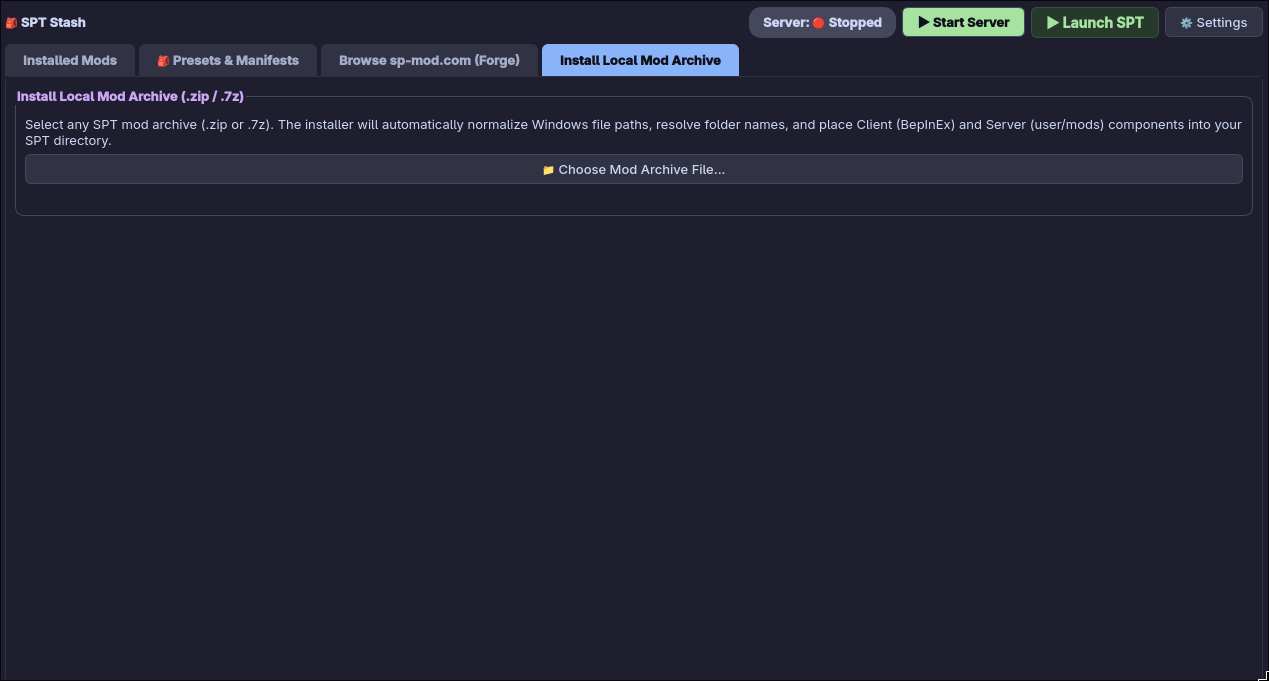
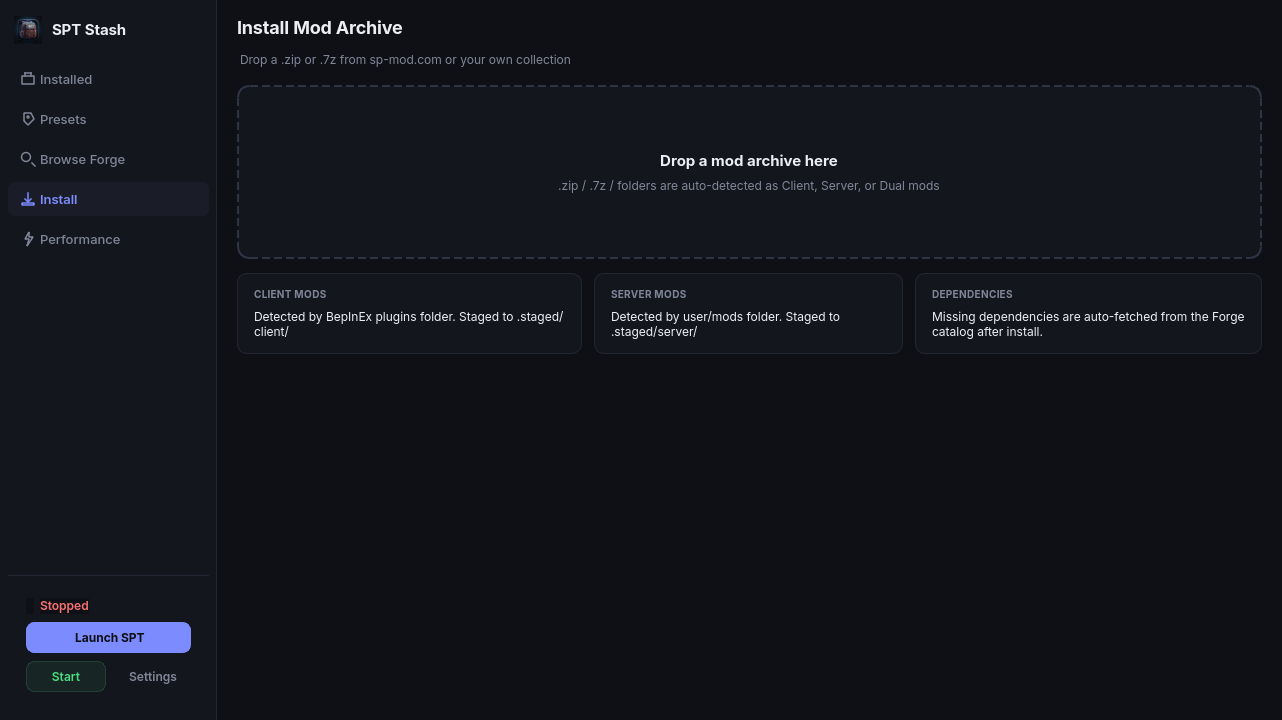
docs: refresh screenshots and README for the new UI

diff --git a/README.md b/README.md
@@ -19,7 +19,7 @@
 - **🛠 Official Greed.exe (SVM) & Proton Selector**: Launch the official [Server Value Modifier (SVM)](https://sp-mod.com/mod/236/server-value-modifier-svm) configurator (`Greed.exe`) under your base game Wine prefix with an interactive Proton runner selector in **⚙ Settings**.
 - **🌐 Universal Server Launcher & Live Badge**: Start and stop the SPT server across any Linux distribution with a 21-terminal discovery matrix, background logging fallback, and real-time status badge parsed directly from `http.json` (e.g. `🟢 Server: Running (127.0.0.1:6969)`).
 - **✨ Non-Blocking Animated Toast Notifications**: Smooth opacity fade-in / fade-out pill notifications for server operations, game launches, Greed.exe, and settings saves without blocking UI interaction.
-- **⚡ Linux Performance & Tuning Suite**: Dedicated tab for configuring **MangoHud overlays**, **AMD FSR 4 upscaling**, **DXVK Async shader compilation**, **Feral GameMode**, **NVIDIA NVAPI optimizations**, and **CPU core isolation (`taskset`)** with 1-click `🤖 Auto-Detect` and script auto-generation for `launcher.sh` and `server.sh`.
+- **⚡ Linux Performance & Tuning Suite**: Dedicated tab for configuring **MangoHud overlays**, **AMD FSR 4 upscaling**, **DXVK Async shader compilation**, **Feral GameMode**, **NVIDIA NVAPI optimizations**, and **CPU core isolation (`taskset`)** with 1-click `🤖 Auto-Detect` applied automatically every time you start the server or launch SPT (your launch scripts are never rewritten).
 - **🌐 Live Mod Catalog Browser**: Search, filter, and 1-click install mods directly from [sp-mod.com (The Forge)](https://sp-mod.com) with 5 sorting modes, target SPT version filtering, dependency resolution, and `.meta.json` sidecar stamping.
 - **🎒 Presets & Loadout Manifests**: Save, load, and export loadout presets as self-contained interactive HTML manifests with embedded JSON data blocks.
 - **📦 Multi-File Mod Consolidation**: Bundles dual-component mods (Client + Server, e.g. `UI Fixes`, `SAIN`, `Fika`) into clean single-row packages.
@@ -31,7 +31,7 @@
 ## 🖼 Application Showcase
 
 ### 1. Installed Mods Overview
-Manage client (`BepInEx/plugins`) and server (`user/mods`) mods with in-tree relative symlink staging (`.staged/`), interactive column sorting, Fika Co-Op compatibility badges, direct clickable author profile links (`https://sp-mod.com/user/<id>/<author>`), and a full right-click context menu. Use the **Bulk Actions Bar** to enable, disable, or delete multiple mods at once, or run **`🔍 Audit Dependencies`** and **`🔄 Check for Updates`**.
+Manage client (`BepInEx/plugins`) and server (`user/mods`) mods with in-tree relative symlink staging (`.staged/`), interactive column sorting, Fika Co-Op compatibility badges, direct clickable author profile links (`https://sp-mod.com/user/<id>/<author>`), and a full right-click context menu. Flip any mod on or off with its toggle (a symlink is added or removed, nothing is copied or re-downloaded), use the **bulk actions** to enable, disable, or delete several at once, or run **`🔍 Audit Dependencies`** and **`🔄 Check for Updates`**.
 
 ![Installed Mods Overview](docs/screenshots/installed_mods.png)
 
@@ -59,7 +59,7 @@ Drag-and-drop or select any local `.zip` or `.7z` mod archive. Automatically nor
 ---
 
 ### 5. Linux Performance & Game Launch Tuning
-Enable recommended Linux performance driver flags for your hardware with automatic GPU and CPU detection. Toggle **MangoHud overlays**, **AMD FSR 4 upscaling**, **DXVK Async shader compilation**, **Feral GameMode**, **NVIDIA NVAPI/threaded optimizations**, and **CPU core isolation (`taskset`)** with **`🤖 Auto-Detect`** and 1-click script auto-generation for `launcher.sh` and `server.sh`.
+Enable recommended Linux performance driver flags for your hardware with automatic GPU and CPU detection. Toggle **MangoHud overlays**, **AMD FSR 4 upscaling**, **DXVK Async shader compilation**, **Feral GameMode**, **NVIDIA NVAPI/threaded optimizations**, and **CPU core isolation (`taskset`)** with **`🤖 Auto-Detect`** applied automatically every time you start the server or launch SPT. Your launch scripts are never rewritten.
 
 ![Linux Performance & Launch Tuning](docs/screenshots/linux_performance.png)
 
@@ -75,6 +75,7 @@ Click **⚙ Settings** at the top right of **SPT Stash** to configure your in
 | **Mod Staging Stash Directory** | In-tree directory where **SPT Stash** stores uncompressed mod files (`SPT_ROOT/.staged`). Mods stay safely stored here and are symlinked into your game when enabled. | `~/Games/SPT/.staged` |
 | **Start Server Script Path** | Path to `server.sh` (or `SPT.Server.exe`) used to launch the local SPT server. | `~/Games/SPT/server.sh` |
 | **Launch SPT Script Path** | Path to `launcher.sh` (or `SPT.Launcher.exe`) used to start the launcher and game. | `~/Games/SPT/launcher.sh` |
+| **Wine / Proton Prefix (optional)** | Existing prefix to run `Greed.exe` in (for example one that already has the .NET Desktop Runtime), or a folder where a new one is created. Leave blank to auto-detect. | `~/Games/SPT-Prefix` |
 | **Proton / Compatibility Runner** | Dropdown menu allowing you to choose which Proton/GE-Proton version or System Wine executes Windows tools. | `Auto-Detect (GE-Proton11-6)` |
 | **Launch Greed.exe (SVM)** | Button to launch official `Greed.exe` inside your base game installation under your SPT Wine Prefix (`~/Games/SPT-Prefix`). Prompts to auto-download SVM from Forge if missing. | *Action Button* |
 | **Create Desktop Shortcut** | Installs system application launcher and desktop shortcut with high-resolution 3D icon. | *Action Button* |
